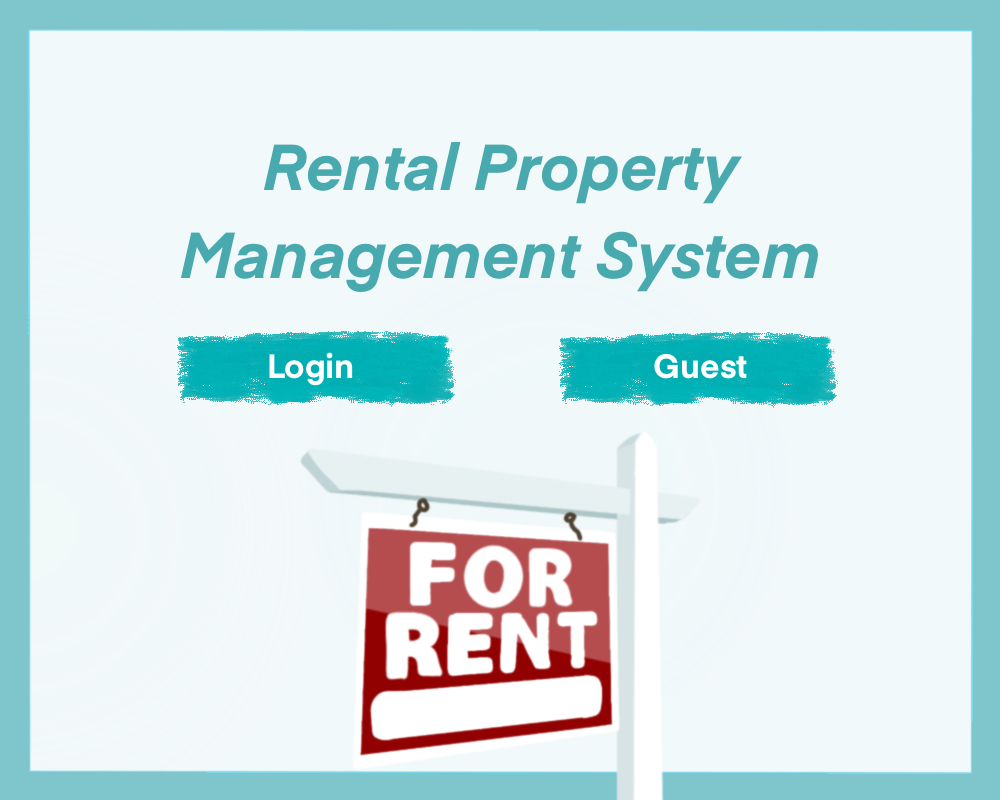
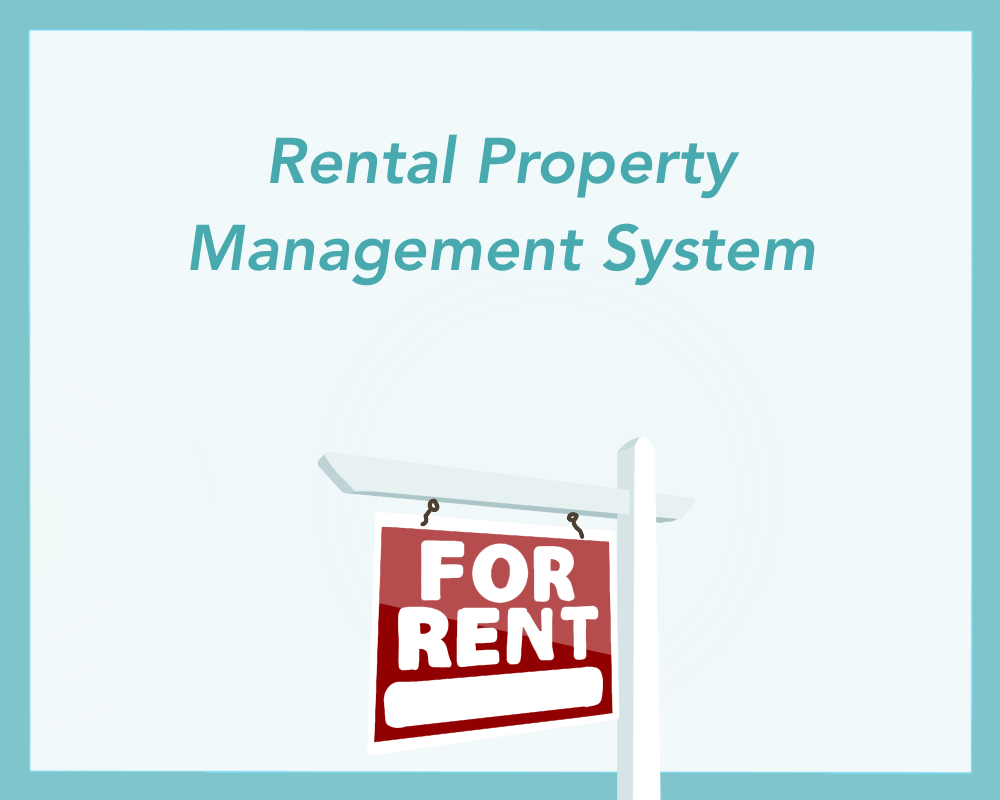
small changes in GUI and images

diff --git a/src/gui/GUI.java b/src/gui/GUI.java
@@ -47,7 +47,7 @@ public class GUI extends JFrame {
 	private ImageIcon loginIcon = new ImageIcon("./images/loginButton.png");
 	private ImageIcon guestIcon = new ImageIcon("./images/guestButton.png");
 	private int buttonW = 280;
-	private int buttonH = 150;
+	private int buttonH = 175;
 
 	// button action flag
 	private boolean buttonPressed = false;
